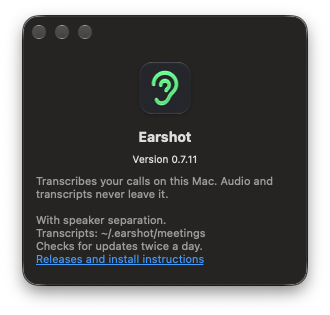
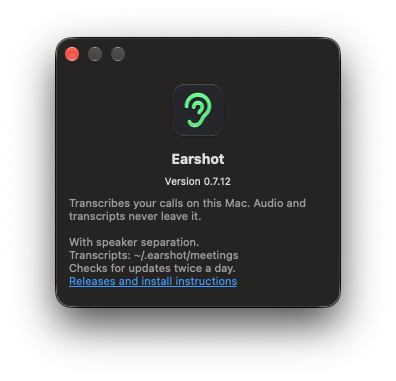
0.7.12: Send Feedback on every platform; About screenshot

diff --git a/README.md b/README.md
@@ -29,6 +29,7 @@
 - [Privacy and your data](#privacy-and-your-data)
 - [Settings](#settings)
 - [Updates](#updates)
+- [Feedback](#feedback)
 - [Troubleshooting](#troubleshooting)
 - [Credits](#credits)
 
@@ -231,6 +232,10 @@ Edit `~/.earshot/config.json` (Windows: `%USERPROFILE%\.earshot\config.json`) an
 When a new version is out, Earshot shows one notification and an **Update to Earshot X…** item in its menu. Click either one and Earshot updates and restarts in a few seconds, keeping your edition, permissions and meetings. If you're on a call, it waits until the call ends. Running the install command again also updates.
 
 The phone app checks too, from version 0.7.5: a banner on its home screen, and on Android one tap to download and install. Phones on an older version need the new `.apk` once, by hand.
+
+## Feedback
+
+Something not working, or an idea? Use **Send Feedback**: on the Mac and Windows it's in Earshot's menu (Settings ▸ Send Feedback…), and on the phone it's in Settings ▸ Feedback. Write what happened and Earshot attaches its logs to an email to earshotproject@gmail.com. You see the email before it's sent. The logs include meeting titles, but never transcripts or audio.
 
 ## Troubleshooting
 
